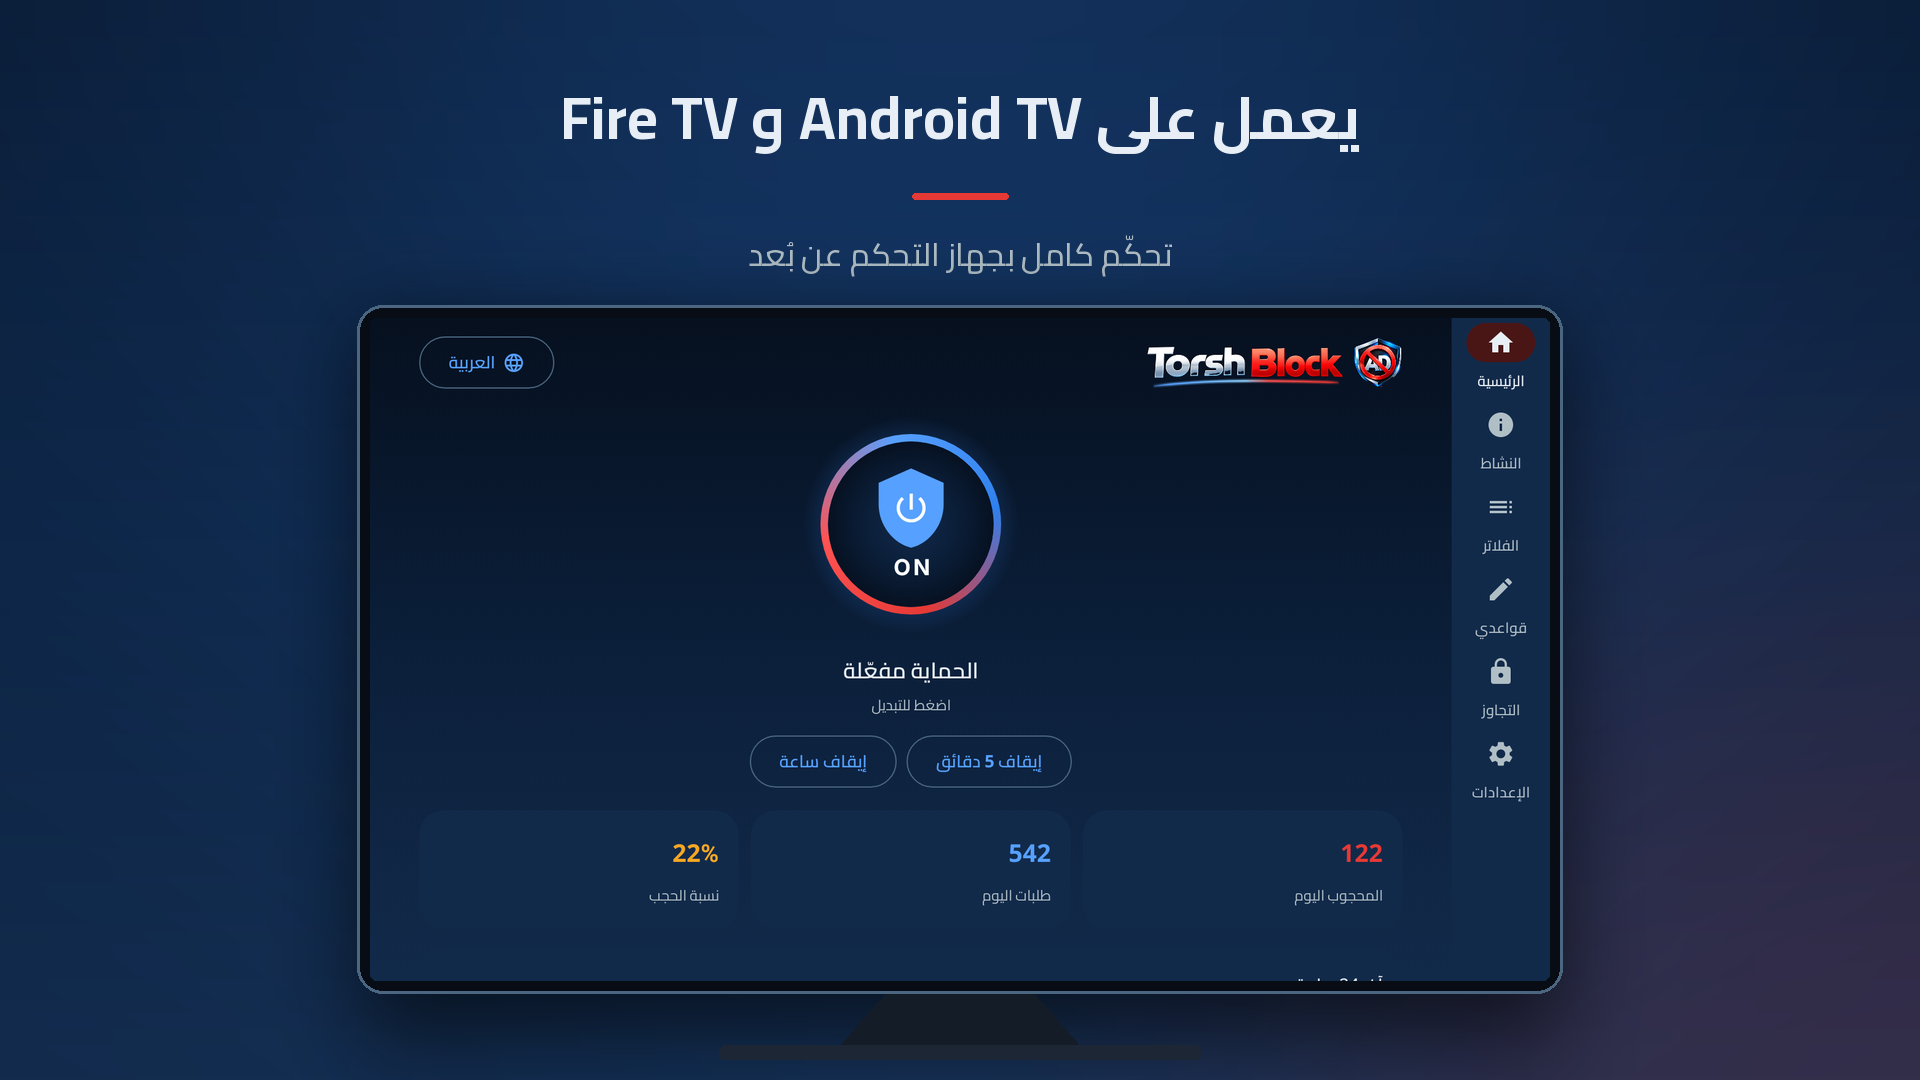
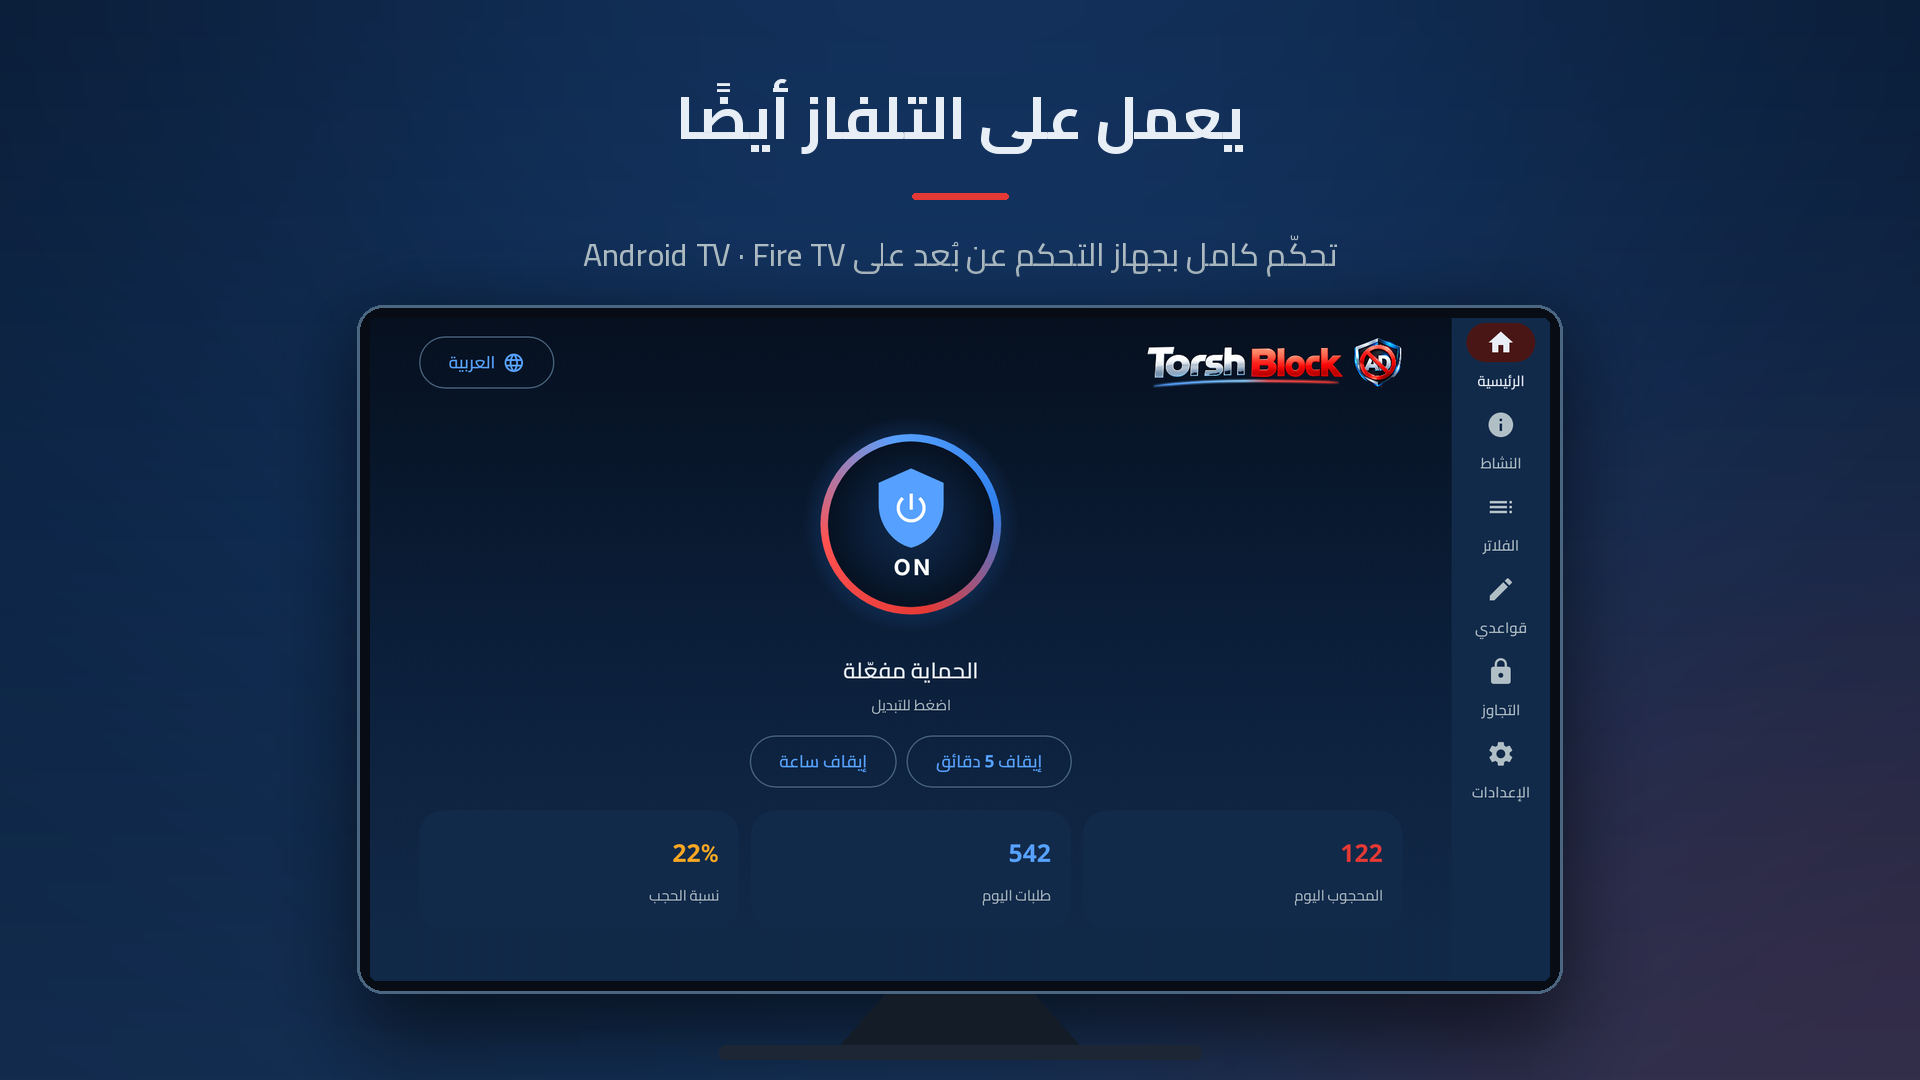
README: proper RTL (isolated Latin terms), refreshed visuals

Changed region(s): [[0.2812, 0.0917, 0.7188, 0.1528], [0.3125, 0.2139, 0.6875, 0.2444]]

diff --git a/README.md b/README.md
@@ -12,21 +12,21 @@
 
 <p align="center"><a href="#العربية">العربية</a> · <a href="#english">English</a></p>
 
-<div dir="rtl">
+<div dir="rtl" align="right">
 
 ## العربية
 
-**Torsh Block** حاجب إعلانات مجاني 100% لهواتف أندرويد وأجهزة Android TV و Fire TV. يحجب الإعلانات والمتتبّعات في كل التطبيقات والمتصفحات عبر VPN محلي على جهازك، **بدون روت**، وبدون حساب، وبدون أي اشتراك.
+**<span dir="ltr">Torsh Block</span>** حاجب إعلانات مجاني 100% لهواتف أندرويد وأجهزة التلفاز (<span dir="ltr">Android TV</span> و<span dir="ltr">Fire TV</span>). يحجب الإعلانات والمتتبّعات في كل التطبيقات والمتصفحات عبر شبكة <span dir="ltr">VPN</span> محلية على جهازك، **بدون روت**، وبدون حساب، وبدون أي اشتراك.
 
 <p align="center"><img src="docs/TorshBlock-demo.gif" alt="عرض سريع لتطبيق Torsh Block" width="640"></p>
-<p align="center">🎬 <a href="https://github.com/GF0285/torsh-block/releases/download/v0.5.0/TorshBlock-0.5.0-demo.mp4">شاهد الفيديو بجودة 1080p</a></p>
+<p align="center">🎬 <a href="https://github.com/GF0285/torsh-block/releases/download/v0.5.0/TorshBlock-0.5.0-demo.mp4">شاهد الفيديو بجودة <span dir="ltr">1080p</span></a></p>
 
 ### المميزات
 - 🛡 حجب الإعلانات والمتتبّعات في كل التطبيقات بضغطة واحدة.
 - 📊 إحصائيات واضحة: المحجوب اليوم، وآخر 24 ساعة، وآخر 7 أيام.
-- 🌐 تجاوز حجب مزوّد الإنترنت: DNS مشفّر (DoH / DoT) ووضع تجاوز DPI.
-- 🗣 بلغتك: العربية، والدارجة المغربية، و English، و Español، مع واجهة من اليمين لليسار.
-- 📺 يعمل على Android TV و Fire TV بالتحكم عن بُعد بالكامل.
+- 🌐 تجاوز حجب مزوّد الإنترنت: <span dir="ltr">DNS</span> مشفّر (<span dir="ltr">DoH / DoT</span>) ووضع تجاوز <span dir="ltr">DPI</span>.
+- 🗣 بلغتك: العربية، والدارجة المغربية، والإنجليزية، والإسبانية، مع واجهة من اليمين إلى اليسار.
+- 📺 يعمل على أجهزة <span dir="ltr">Android TV</span> وأجهزة <span dir="ltr">Fire TV</span>، بالتحكم عن بُعد بالكامل.
 - 🔄 تحديثات آمنة من داخل التطبيق: يتحقق من التوقيع والشهادة قبل التثبيت.
 - 💯 مجاني 100%، بدون إعلانات ولا اشتراكات.
 
@@ -36,21 +36,21 @@
 | <img src="docs/screenshots/01_home_ar.png" width="260"> | <img src="docs/screenshots/02_activity_ar.png" width="260"> | <img src="docs/screenshots/03_bypass_ar.png" width="260"> |
 | <img src="docs/screenshots/04_language_ar.png" width="260"> | <img src="docs/screenshots/06_update_ar.png" width="260"> | <img src="docs/screenshots/07_donate_ar.png" width="260"> |
 
-<p align="center"><img src="docs/screenshots/05_tv_ar.png" width="80%" alt="Torsh Block على Android TV"></p>
+<p align="center"><img src="docs/screenshots/05_tv_ar.png" width="80%" alt="Torsh Block على التلفاز"></p>
 
 ### التثبيت على الهاتف
 1. افتح [صفحة آخر إصدار](https://github.com/GF0285/torsh-block/releases/latest) من هاتفك.
-2. نزّل ملف **TorshBlock-…-arm64-v8a.apk** (أغلب الهواتف الحديثة). إن لم تكن متأكدًا فنزّل **universal**.
-3. افتح الملف واسمح بـ «تثبيت تطبيقات غير معروفة» للمتصفح عند الطلب، ثم اضغط «تثبيت».
-4. افتح Torsh Block واضغط زر التشغيل، ثم وافق على طلب الـ VPN.
+2. نزّل ملف <span dir="ltr">arm64-v8a</span> (يناسب أغلب الهواتف الحديثة). إن لم تكن متأكدًا فنزّل ملف <span dir="ltr">universal</span>.
+3. افتح الملف، واسمح بـ«تثبيت تطبيقات غير معروفة» للمتصفح عند الطلب، ثم اضغط «تثبيت».
+4. افتح التطبيق واضغط زر التشغيل، ثم وافق على طلب الاتصال.
 
-### التثبيت على Fire TV (عبر Downloader)
-1. ثبّت تطبيق **Downloader** من متجر Amazon.
-2. الإعدادات ← My Fire TV ← خيارات المطور ← تثبيت تطبيقات غير معروفة ← Downloader ← تشغيل.
-   (إن لم تظهر «خيارات المطور»: الإعدادات ← My Fire TV ← About، واضغط على اسم الجهاز 7 مرات.)
-3. افتح Downloader واكتب الرابط التالي ثم اضغط Go:
+### التثبيت على <span dir="ltr">Fire TV</span> عبر تطبيق <span dir="ltr">Downloader</span>
+1. ثبّت تطبيق <span dir="ltr">Downloader</span> من متجر أمازون.
+2. افتح الإعدادات، ثم <span dir="ltr">My Fire TV</span>، ثم خيارات المطوّر، ثم «تثبيت تطبيقات غير معروفة»، وفعّل الخيار لتطبيق <span dir="ltr">Downloader</span>.
+   إن لم تظهر خيارات المطوّر: افتح <span dir="ltr">My Fire TV</span> ثم <span dir="ltr">About</span>، واضغط على اسم الجهاز 7 مرات.
+3. افتح <span dir="ltr">Downloader</span> واكتب الرابط التالي، ثم اضغط <span dir="ltr">Go</span>:
 
-<div dir="ltr">
+<div dir="ltr" align="left">
 
 ```
 https://github.com/GF0285/torsh-block/releases/download/v0.5.0/TorshBlock-0.5.0-armeabi-v7a.apk
@@ -58,17 +58,17 @@ https://github.com/GF0285/torsh-block/releases/download/v0.5.0/TorshBlock-0.5.0-
 
 </div>
 
-4. اختر «تثبيت»، ثم افتح Torsh Block وفعّل الحماية بجهاز التحكم.
+4. اختر «تثبيت»، ثم افتح التطبيق وفعّل الحماية بجهاز التحكم.
 
-على Android TV (Google TV وغيرها) استعمل الطريقة نفسها مع ملف **universal**.
+على أجهزة <span dir="ltr">Android TV</span> الأخرى استعمل الطريقة نفسها مع ملف <span dir="ltr">universal</span>.
 
 ### التحقق من الملفات
-كل إصدار يحتوي على `SHA256SUMS.txt`. التطبيق نفسه يرفض أي تحديث غير موقّع بمفتاح Torsh Block الرسمي.
+كل إصدار يحتوي على ملف <span dir="ltr">SHA256SUMS.txt</span>. والتطبيق نفسه يرفض أي تحديث غير موقّع بالمفتاح الرسمي.
 
 ### ادعم المطوّر
-التطبيق مجاني 100% وسيبقى كذلك. إن أعجبك وأردت دعم التطوير، يمكنك التبرع بـ **GRAM على شبكة TON** إلى المحفظة:
+التطبيق مجاني 100% وسيبقى كذلك. إن أعجبك وأردت دعم التطوير، يمكنك التبرع بعملة <span dir="ltr">GRAM</span> على شبكة <span dir="ltr">TON</span> إلى المحفظة:
 
-<div dir="ltr">
+<div dir="ltr" align="left">
 
 ```
 UQDUobwrdGFonu5sWIyyEn7WOwcT-uwuGoKYECwrQq2KdjYR
@@ -76,12 +76,12 @@ UQDUobwrdGFonu5sWIyyEn7WOwcT-uwuGoKYECwrQq2KdjYR
 
 </div>
 
-أرسل GRAM فقط وعلى شبكة TON فقط، فالعملات الأخرى أو الشبكات الأخرى قد تضيع.
+أرسل عملة <span dir="ltr">GRAM</span> فقط وعلى شبكة <span dir="ltr">TON</span> فقط، فالعملات أو الشبكات الأخرى قد تضيع.
 
 ### الترخيص
-Torsh Block برنامج مملوك (proprietary)، وكل الحقوق محفوظة لـ GF0285. يُسمح بتنزيله واستعماله مجانًا، ويُمنع نسخه أو تعديله أو إعادة توزيعه دون إذن كتابي. انظر [LICENSE](LICENSE). المكوّنات مفتوحة المصدر المضمَّنة تبقى تحت تراخيصها، والقائمة الكاملة داخل التطبيق: الرئيسية ← حول التطبيق ← تراخيص الطرف الثالث.
+هذا التطبيق برنامج مملوك، وكل الحقوق محفوظة لـ<span dir="ltr">GF0285</span>. يُسمح بتنزيله واستعماله مجانًا، ويُمنع نسخه أو تعديله أو إعادة توزيعه دون إذن كتابي، انظر ملف [<span dir="ltr">LICENSE</span>](LICENSE). المكوّنات مفتوحة المصدر المضمَّنة تبقى تحت تراخيصها، والقائمة الكاملة داخل التطبيق: الرئيسية ← حول التطبيق ← تراخيص الطرف الثالث.
 
-<p align="center">صُنع بـ ♥ من طرف GF0285 عضو كل من GeeksFamily و DWM</p>
+<p align="center" dir="rtl">صُنع بـ ♥ من طرف <span dir="ltr">GF0285</span> عضو كل من <span dir="ltr">GeeksFamily</span> و <span dir="ltr">DWM</span></p>
 
 </div>
 
